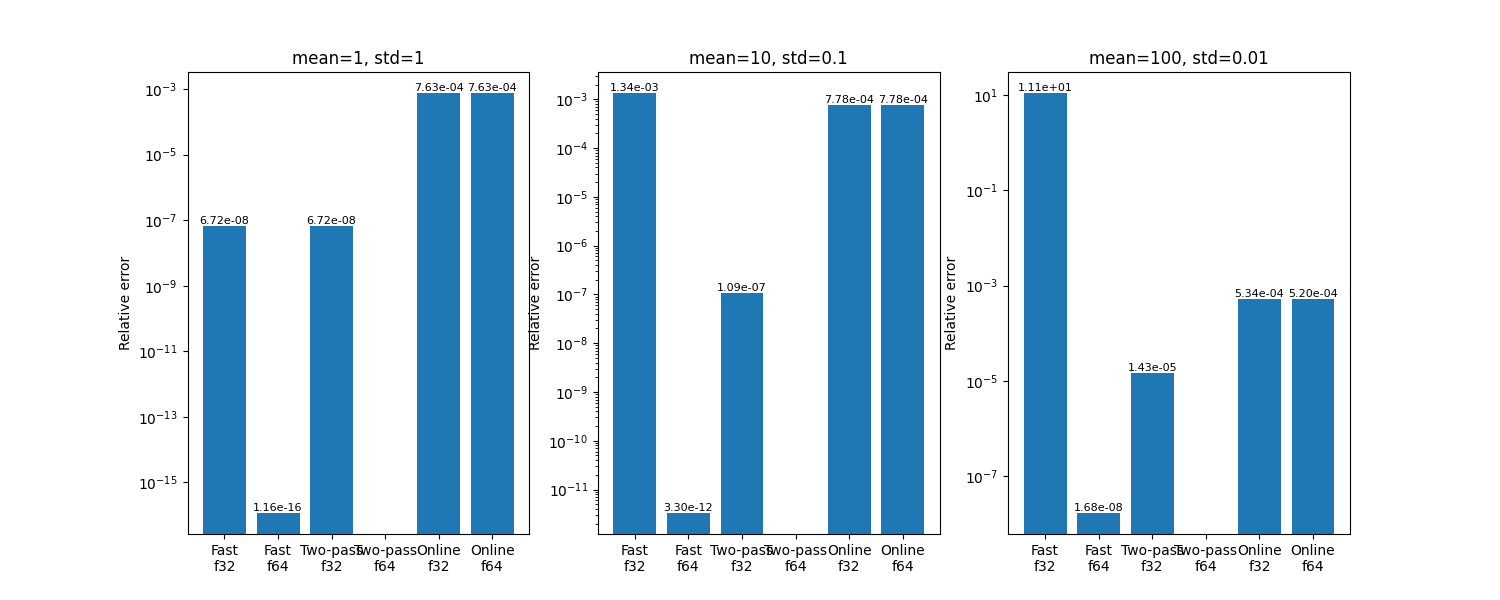
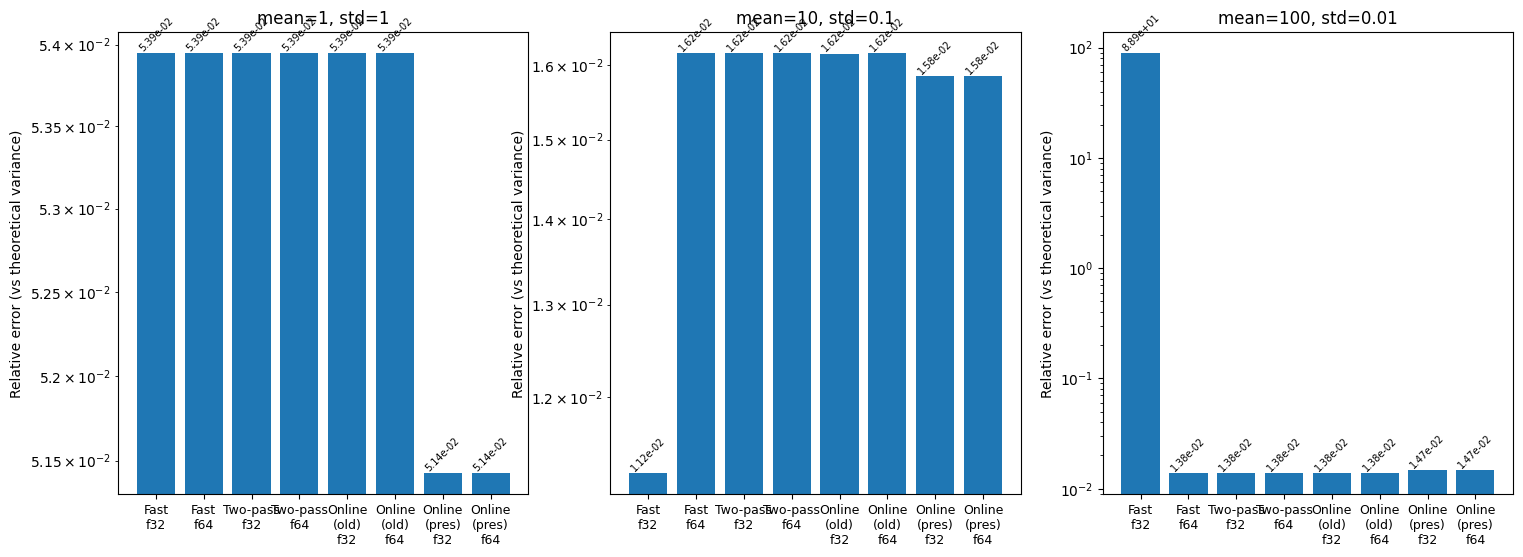
[FP] update processing

diff --git a/FP/FP.py b/FP/FP.py
@@ -3,18 +3,39 @@ import matplotlib.pyplot as plt
 
 np.random.seed(42)
 
+def my_mean(x):
+    s = 0.0
+    for v in x:
+        s += v
+    return s / len(x)
+
 def fast_var(data):
     n = len(data)
-    M = np.mean(data)
-    RS = np.mean(data ** 2)
+    M = my_mean(data)
+    RS = my_mean(data ** 2)
     return RS - M * M
 
 def two_pass_var(data):
-    M = np.mean(data)
-    return np.mean((data - M) ** 2)
+    M = my_mean(data)
+    s = 0.0
+    for v in data:
+        s += (v - M) ** 2
+    return s / len(data)
 
 def online_var(data):
     n = len(data)
+    M = data[0] * 0.0
+    S = 0.0
+    for i, x in enumerate(data, 1):
+        delta = x - M
+        M = M + delta / i
+        S = S + delta * (x - M)
+    return S / n
+
+def online_var_presentation(data):
+    n = len(data)
+    if n == 0:
+        return 0.0
     M = data[0].astype(float)
     D = 0.0
     for i in range(2, n + 1):
@@ -30,44 +51,48 @@ distributions = [
     ("mean=100, std=0.01", 100.0, 0.01)
 ]
 
+true_vars = [1.0, 0.01, 0.0001]
+
 methods = [
     ("Fast", fast_var),
     ("Two-pass", two_pass_var),
-    ("Online", online_var)
+    ("Online (old)", online_var),
+    ("Online (pres)", online_var_presentation)
 ]
 
 dtypes = [("float32", np.float32), ("float64", np.float64)]
 
-results = {label: {f"{m[0]}_{d[0]}": [] for m in methods for d in dtypes} for label, _, _ in distributions}
-
 print("Отрицательные значения дисперсии:")
-for label, mean, std in distributions:
+for (label, mean, std), true_var in zip(distributions, true_vars):
     data64 = np.random.normal(mean, std, 1000)
-    ref = np.var(data64, ddof=0)
-
     for mname, mfunc in methods:
         for dtype_name, dtype in dtypes:
             data = data64.astype(dtype)
             computed = mfunc(data)
-            err = abs(computed - ref) / ref
-            results[label][f"{mname}_{dtype_name}"] = err
-
             if computed < 0:
                 print(f"  {label}, {mname}_{dtype_name}: {computed:.6e}")
 
-fig, axes = plt.subplots(1, 3, figsize=(15, 6))
+fig, axes = plt.subplots(1, 3, figsize=(18, 6))
 
-for ax, (label, _, _) in zip(axes, distributions):
-    errs = [results[label][f"{m}_{d}"] for m in ["Fast", "Two-pass", "Online"] for d in ["float32", "float64"]]
-    x = np.arange(len(methods) * len(dtypes))
-    width = 0.8
-    bars = ax.bar(x, errs, width)
+for ax, (label, mean, std), true_var in zip(axes, distributions, true_vars):
+    data64 = np.random.normal(mean, std, 1000)
+    rel_errors = []
+    for mname, mfunc in methods:
+        for dtype_name, dtype in dtypes:
+            data = data64.astype(dtype)
+            computed = mfunc(data)
+            err = abs(computed - true_var) / true_var
+            rel_errors.append(err)
+    x = np.arange(len(rel_errors))
+    bars = ax.bar(x, rel_errors, width=0.8)
     ax.set_xticks(x)
-    ax.set_xticklabels([f"{m}\n{d}" for m in ["Fast", "Two-pass", "Online"] for d in ["f32", "f64"]])
+    labels = [f"{m}\n{d}" for m in ["Fast", "Two-pass", "Online\n(old)", "Online\n(pres)"] for d in ["f32", "f64"]]
+    ax.set_xticklabels(labels, fontsize=9)
     ax.set_yscale('log')
     ax.set_title(label)
-    ax.set_ylabel("Relative error")
-    for bar, err in zip(bars, errs):
-        ax.text(bar.get_x() + bar.get_width()/2, bar.get_height(), f"{err:.2e}", ha='center', va='bottom', fontsize=8)
+    ax.set_ylabel("Relative error (vs theoretical variance)")
+    for bar, err in zip(bars, rel_errors):
+        ax.text(bar.get_x() + bar.get_width()/2, bar.get_height(), f"{err:.2e}",
+                ha='center', va='bottom', fontsize=7, rotation=45)
 
-plt.savefig("variance_errors.png")
+plt.savefig("variance_errors.png", bbox_inches='tight')
